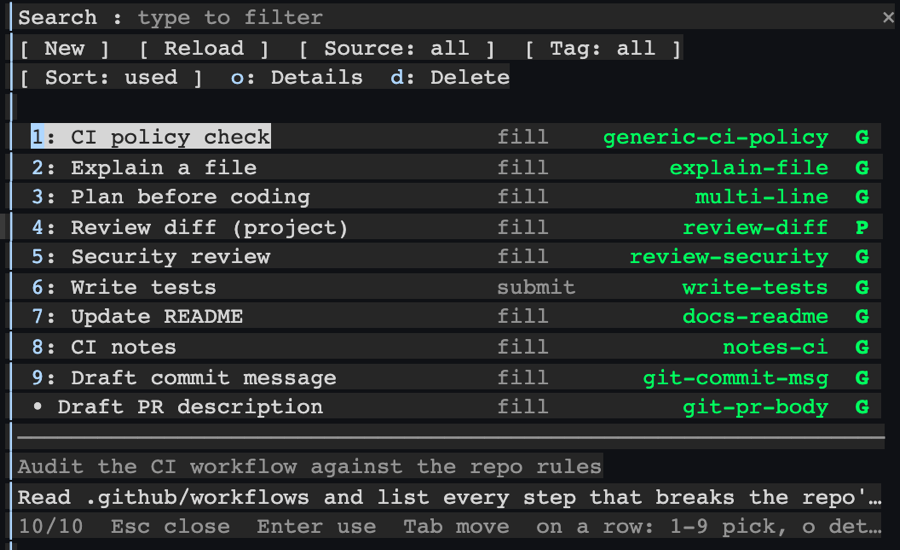
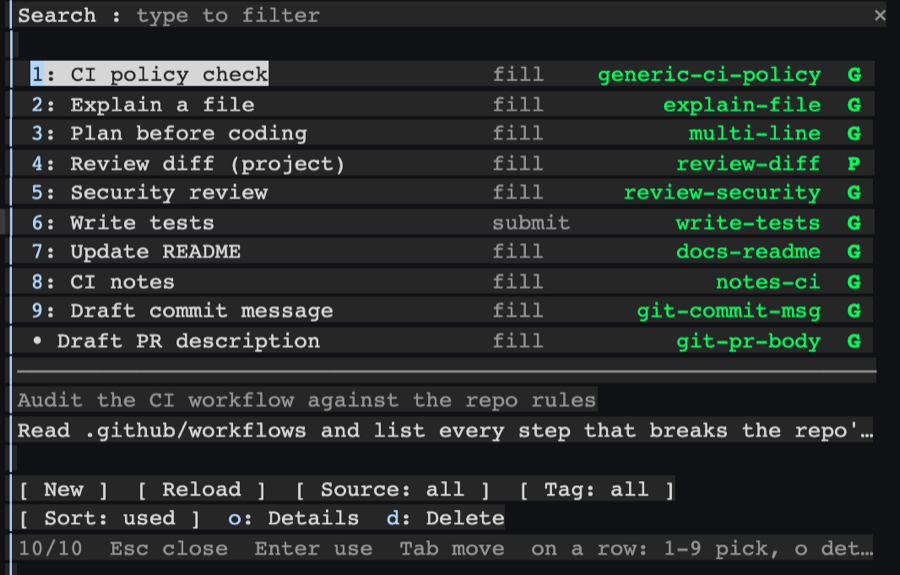
feat(main): tools row below the results
Down or Tab from the search field now lands on the top hit first. README layout text and screenshots updated.

diff --git a/hooks/register.tsx b/hooks/register.tsx
@@ -724,15 +724,6 @@ async function renderList($: EngineInterface, e: PaneEvent) {
       {staleRow}
       {saveDraftButton}
       <Input key="q" label="Search " autoFocus placeholder="type to filter" value={query} submitLabel="use top hit" onInput={setQuery} onSubmit={submitSearch} />
-      <Box key="tools" flexDirection="row" flexWrap="wrap" columnGap={2}>
-        <Button plain key="new" onPress={openNew}>[ New ]</Button>
-        <Button plain key="reload" onPress={reloadNow}>[ Reload ]</Button>
-        <Button plain key="src" onPress={() => patchFilter({ source: nextSource(filter.source, hasProject) })}>{`[ Source: ${filter.source} ]`}</Button>
-        {tags.length > 0 ? <Button plain key="tag" onPress={() => patchFilter({ tag: nextTag(filter.tag, tags) })}>{`[ Tag: ${filter.tag || 'all'} ]`}</Button> : null}
-        <Button plain key="sort" onPress={toggleSort}>{'[ Sort: ' + sortBy + ' ]'}</Button>
-        {focusedHit ? <Button plain key="details" hotkey="o" onPress={() => { void go($, { screen: 'detail', path: focusedHit.path }) }}>Details</Button> : null}
-        {focusedHit ? <Button plain key="list-del" hotkey="d" onPress={() => { void go($, { screen: 'delete', path: focusedHit.path, back: 'list' }) }}>Delete</Button> : null}
-      </Box>
       <Box key="results" flexDirection="column" marginTop={layout.hasMargins ? 1 : 0} paddingLeft={1}>
         {shown.length === 0 ? (
           <Box key="none" flexDirection="column">
@@ -768,6 +759,15 @@ async function renderList($: EngineInterface, e: PaneEvent) {
           {previewText.map((line, i) => <Text key={`p-l${i}`} wrap="truncate-end">{line}</Text>)}
         </Box>
       ) : null}
+      <Box key="tools" flexDirection="row" flexWrap="wrap" columnGap={2} marginTop={layout.hasMargins ? 1 : 0}>
+        <Button plain key="new" onPress={openNew}>[ New ]</Button>
+        <Button plain key="reload" onPress={reloadNow}>[ Reload ]</Button>
+        <Button plain key="src" onPress={() => patchFilter({ source: nextSource(filter.source, hasProject) })}>{`[ Source: ${filter.source} ]`}</Button>
+        {tags.length > 0 ? <Button plain key="tag" onPress={() => patchFilter({ tag: nextTag(filter.tag, tags) })}>{`[ Tag: ${filter.tag || 'all'} ]`}</Button> : null}
+        <Button plain key="sort" onPress={toggleSort}>{'[ Sort: ' + sortBy + ' ]'}</Button>
+        {focusedHit ? <Button plain key="details" hotkey="o" onPress={() => { void go($, { screen: 'detail', path: focusedHit.path }) }}>Details</Button> : null}
+        {focusedHit ? <Button plain key="list-del" hotkey="d" onPress={() => { void go($, { screen: 'delete', path: focusedHit.path, back: 'list' }) }}>Delete</Button> : null}
+      </Box>
       <Text key="hint" {...LOOK.hint} wrap="truncate-end">{String(hits.length) + '/' + String(all.length) + (errors > 0 ? ' (' + String(errors) + ' skipped)' : '') + (notice ? '  ' + notice : '') + '  Esc close  Enter use  Tab move  on a row: 1-9 pick, o details, d delete'}</Text>
     </Box>
   )

diff --git a/tests/ui.test.tsx b/tests/ui.test.tsx
@@ -531,6 +531,18 @@ describe('v0.2 organize and speed', () => {
     await ui.unmount()
   })
 
+  test('the tools row comes after the results so Tab reaches the top hit first', async ($, on) => {
+    world(on)
+    await $.command.run(run(''))
+    const ui = await $.ui.mount({ plugin: PLUGIN, surface: 'terminal', component: 'Pane', requestId: PANE, props: paneProps(80, 'dock') })
+    const keys = (await ui.findAll({ type: 'Button' })).map(b => b.key ?? '')
+    const firstRow = keys.findIndex(k => k.startsWith('r:'))
+    expect(firstRow).toBeGreaterThanOrEqual(0)
+    expect(firstRow).toBeLessThan(keys.indexOf('new'))
+    expect(keys.indexOf('new')).toBeGreaterThan(keys.findLastIndex(k => k.startsWith('r:')))
+    await ui.unmount()
+  })
+
   test('Pin writes pin: true and puts the snippet first', async ($, on) => {
     const w = world(on)
     await $.command.run(run('tests'))

diff --git a/README.md b/README.md
@@ -6,7 +6,7 @@ A Claude Code plugin that keeps your saved prompts as plain Markdown files and p
 
 Requires Claude Code 2.1.287 or newer. The plugin is a mod (function hooks), which loads in the terminal and in the Desktop app's Code tab. The VS Code chat panel and `claude -p` run its commands but draw no pane, so use `/sn list` there.
 
-![The picker docked beside the transcript: search, the tools row, numbered results and a preview](assets/screenshot-picker-dock.png)
+![The picker docked beside the transcript: search, numbered results, a preview and the tools row](assets/screenshot-picker-dock.png)
 
 ![Typing "rev" narrows the list; the focused snippet previews below](assets/screenshot-picker-search.png)
 
@@ -70,15 +70,15 @@ A file that fails to parse is skipped and listed by `/sn doctor`; it never stops
 
 `/snippets` (or `/sn`) opens the pane with the search field focused. Typing filters by title, slug, tags and description; a slug segment prefix ranks high, so `ci` finds `generic-ci-policy` first. Among equal matches, and for an empty search, pinned snippets come first, then the most used ones (or the most recently used, see Sort below).
 
-Below the search field sits the tools row: New, Reload, Source (all, global, project), Tag (the tags of the snippets the Source filter shows), Sort (most used or most recently used; the choice is remembered), and Details and Delete for the focused result. Then come the results, one line each: the title, its mode, its slug, and `G` (global) or `P` (project), with `*` when pinned. Below a divider the focused snippet previews, and the bottom line shows the counts and keys.
+Below the search field come the results, one line each: the title, its mode, its slug, and `G` (global) or `P` (project), with `*` when pinned. Below a divider the focused snippet previews. Then sits the tools row: New, Reload, Source (all, global, project), Tag (the tags of the snippets the Source filter shows), Sort (most used or most recently used; the choice is remembered), and Details and Delete for the focused result. The bottom line shows the counts and keys.
 
-Down or Tab moves from the search field through the tools row to the results. Enter on a result applies it, and Enter in the search field applies the top hit. Once the focus has left the search field, `1` to `9` apply the first nine rows, `o` opens the details of the focused result and `d` deletes it; while the search field has the focus, these keys are typed into the search.
+Down or Tab moves from the search field to the results, so the most used snippet is one key away, and on through the tools row. Enter on a result applies it, and Enter in the search field applies the top hit. Once the focus has left the search field, `1` to `9` apply the first nine rows, `o` opens the details of the focused result and `d` deletes it; while the search field has the focus, these keys are typed into the search.
 
 A `fill` snippet lands in the prompt box and the pane closes; a second Enter then sends it to Claude as with anything you type, so review it first. A `submit` snippet is sent at once.
 
 When you know the slug, `/sn <slug>!` skips the picker: the snippet is applied at once, a snippet with placeholders opens its form, and an unknown slug opens the picker filtered by that text.
 
-Esc closes the pane on every screen. When the pane is short, the preview is dropped first; when Claude Code gives the pane fewer rows than it asks for, the bottom is cut (the end of the list, the preview and the counts line), while the search field and the tools row stay.
+Esc closes the pane on every screen. When the pane is short, the preview is dropped first; when Claude Code gives the pane fewer rows than it asks for, the bottom is cut (the counts line, the tools row, then the preview and the end of the list), while the search field stays.
 
 ### Fill placeholders
 

diff --git a/CHANGELOG.md b/CHANGELOG.md
@@ -2,6 +2,10 @@
 
 All notable changes to Cyberine Snippets. Versions follow `version` in `.claude-plugin/plugin.json`.
 
+## [Unreleased]
+
+- The list's tools row moved back below the results and preview, so Down or Tab from the search field lands on the top hit first.
+
 ## [0.2.2] - 2026-10-02
 
 - The global snippet folder no longer falls back to `$XDG_DATA_HOME/cyberine-snippets`; it is `CYBERINE_SNIPPETS_DIR` when set, else `~/.claude/snippets`, as in 0.1.x. The plugin reads no `XDG_DATA_HOME`.
